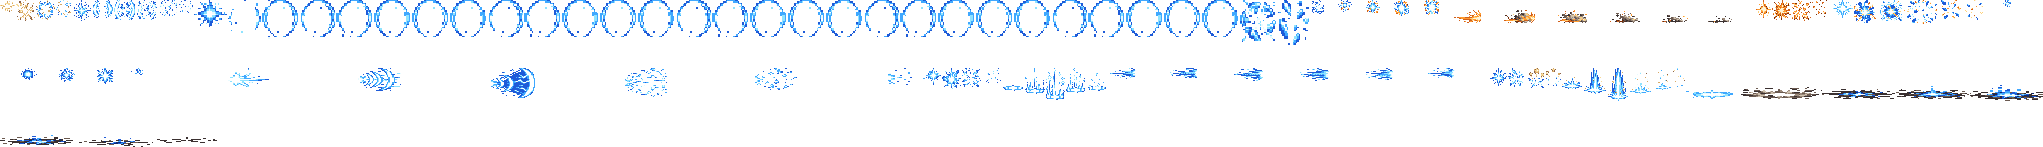
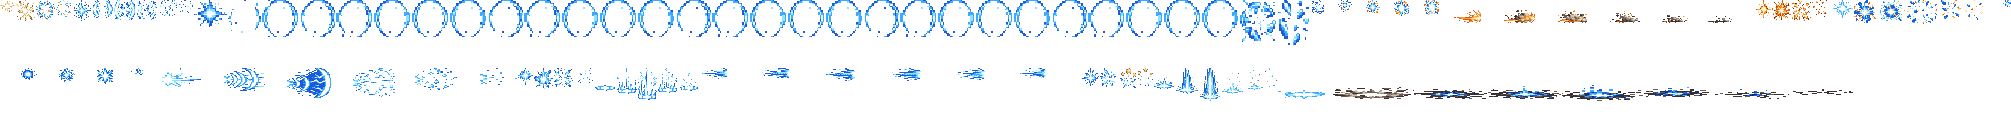
Vi: E's shock wave on a view-only line toward the target; run legs pack for Codex
The wave was a CasterViewEffect, which only turns left or right: aimed up or down it missed the
cone it hits, and on the red side it stood the wrong way (the user: "蔚的E技能特效是歪的",
"红方释放的释放是歪的", "之前剑姬的问题 E技能的特效没有跟随人物 反方向的"). It now rides
league_vi_e_wave, a LineRangeProjectile with no effects (league_briar E's way): it points from her
pivot at the target, lasts the picture's 22 ticks and outlives a target the punch kills. The
import lays Codex's wave 22-66 px along the 68 px line (e_wave), the showcase turns it to the
target. assets/source/vi/RUN_LEGS.md: the run's legs never swap ("蔚走路的时候没有明显交叉步"),
a legs-only redraw asked of Codex.

diff --git a/tools/art/import_vi.py b/tools/art/import_vi.py
@@ -16,9 +16,13 @@ Placing (a frame's middle is drawn on the unit's pivot, 11 px over its feet; a c
 faces left). Her spots are measured on league/champions/league_vi (x right, y down from the pivot; re-measure after a
 strips redraw; these are the guard design's, tools/art/strips_vi.py): the Q charge on the near gauntlet pulled back
 low beside her hip (its crystal (-7, -5), skill frames 2-4), the E glow on the far fist raised by her cheek (its crystal
-(11, -15) in the idle: that fist does the E hammer), the E wave's left middle on that fist's crystal as it smashes
-down-forward (22, -1: attack_e frame 4), the R trail's right edge at her back (-4, -12), Q's dust at her start (its
-right edge 4 px ahead, its foot on the soles).
+(11, -15) in the idle: that fist does the E hammer), the R trail's right edge at her back (-4, -12), Q's dust at her
+start (its right edge 4 px ahead, its foot on the soles). The E wave is the picture of a view-only line from her pivot
+toward the target (the kit's league_vi_e_wave, WAVE px long; a line's picture is drawn centred on the line and turned to
+it, league_briar E): its left middle 22 px along the line, where the smashing fist's crystal is (attack_e frame 4),
+its middle row on the line. As a caster picture it only turned left or right and stood the wrong way on the red side
+(the user, 2026-10-03: 「之前剑姬的问题 E技能的特效没有跟随人物 反方向的」); turned with the line it points where the cone
+hits, upside down when she punches left (Codex's wave is about the same both ways up).
 The hits, W's third hit, Q's stop and R's knock aside on the target's upper body (0, -8); R's uppercut column, the
 shield and R's launch with their foot on the soles; R's slam crack round the feet (its middle 2 px over the soles).
 Times (60 ticks a second, league_vi.data_champion): the Q charge 5 x 100 ms (its 30 ticks), Q's dust 6 x 70 ms (the
@@ -49,6 +53,7 @@ BODY = (0, -8)                 # a hit on the upper body
 Q_FIST = (-7, -5)              # the near gauntlet pulled back by her hip, skill frames 2-4: its crystal
 E_FIST = (11, -15)             # the far fist raised by her cheek in the idle (the E hammer's fist): its crystal
 E_SMASH = (22, -1)             # that fist smashing down-forward, attack_e frame 4: the wave's left middle
+WAVE = 68                      # the E wave's line (league_vi_e_wave's length / 1000): the frames centre on its middle
 R_BACK = (-4, -12)             # the R trail's right edge, behind her
 # name: factor, or (across, down)
 SCALE = {"hit": 0.7, "q_hit": 0.7, "e_hit": 0.7, "r_side": 0.7, "q_charge": 1 / 2, "e_arm": 1 / 2,
@@ -123,6 +128,13 @@ def left_at(frames, point):
     return [G.centre_frame(c, point[0] - x0, point[1] - int(round((y0 + y1) / 2))) for c in frames]
 
 
+def on_line(frames, start, length):
+    """A line's picture: the common box's left middle `start` px along a line `length` px long from her pivot, the frame
+    centred on the line's middle."""
+    x0, y0, x1, y1 = box(frames)
+    return [G.centre_frame(c, start - length // 2 - x0, -int(round((y0 + y1) / 2))) for c in frames]
+
+
 def right_at(frames, point):
     """The common box's right middle on `point`."""
     x0, y0, x1, y1 = box(frames)
@@ -163,7 +175,7 @@ def build():
         "q_hit": seq(at(cells("q_hit"), BODY), 70),
         "q_stop": seq(at(cells("q_stop"), BODY), 70),
         "e_arm": seq(at(cells("e_arm"), E_FIST), 80),
-        "e_cone": seq(left_at(cells("e_cone"), E_SMASH), 60),
+        "e_wave": seq(on_line(cells("e_cone"), E_SMASH[0], WAVE), 60),
         "e_hit": seq(at(cells("e_hit"), BODY), 70),
         "r_cast": seq(grounded(cells("r_cast")), 80),
         "r_trail": seq(right_at(cells("r_trail"), R_BACK), 70),
@@ -174,9 +186,11 @@ def build():
 
 
 # effect: (her tag, frame index) it is drawn over in the review; None = on a target (her idle)
-ON = {"q_charge": ("skill", 2), "q_go": ("skill_dash", 0), "e_arm": ("idle", 0), "e_cone": ("attack_e", 3),
+ON = {"q_charge": ("skill", 2), "q_go": ("skill_dash", 0), "e_arm": ("idle", 0), "e_wave": ("attack_e", 3),
       "bs_on": ("idle", 0), "r_cast": ("ult", 0), "r_trail": ("ult_dash", 0), "r_slam": ("ult_slam", 0)}
 BEHIND = {"q_go", "r_trail", "r_slam"}
+# effect: px its frame's middle stands ahead of her pivot in the review (a line's picture: the line's middle)
+AHEAD = {"e_wave": WAVE // 2}
 
 
 def review(fx, out, z=4):
@@ -196,12 +210,14 @@ def review(fx, out, z=4):
             if id(a) in seen:
                 continue
             seen.add(id(a))
+            dx = AHEAD.get(name, 0)
             H = max(a.shape[0], b.shape[0])
-            W = max(a.shape[1], b.shape[1])
+            W = max(a.shape[1] + 2 * dx, b.shape[1])
             c = Image.new("RGBA", (W, H), ARENA)
             layers = [(a, 1), (b, 0)] if name in BEHIND else [(b, 0), (a, 1)]
-            for arr, _ in layers:
-                c.alpha_composite(Image.fromarray(arr, "RGBA"), ((W - arr.shape[1]) // 2, (H - arr.shape[0]) // 2))
+            for arr, ahead in layers:
+                c.alpha_composite(Image.fromarray(arr, "RGBA"),
+                                  ((W - arr.shape[1]) // 2 + dx * ahead, (H - arr.shape[0]) // 2))
             cells_.append(c.resize((W * z, H * z), Image.NEAREST))
         h = max(c.height for c in cells_)
         row = Image.new("RGBA", (sum(c.width + 8 for c in cells_) + 8, h + 28), (30, 34, 40, 255))

diff --git a/tools/art/preview_vi.py b/tools/art/preview_vi.py
@@ -16,6 +16,7 @@
 Distances in px (1000 distance units a px): Q dashes 4 px a tick for 12 ticks, R 4 px a tick.
 """
 import argparse
+import math
 import os
 import sys
 
@@ -34,6 +35,7 @@ LEAGUE = os.path.join(ROOT, "league")
 CHAMP = os.path.join(LEAGUE, "champions", "league_vi")
 FX = os.path.join(LEAGUE, "effects", "league_vi_fx")
 Q_SPEED, R_SPEED = 4.0, 4.0
+WAVE = 68                                   # the E wave's line, px (league_vi_e_wave)
 ATK_HIT, ATK_DUR, ATK_CD = 10, 24, 60
 
 
@@ -90,12 +92,20 @@ def showcase(out, z=3, step=40):
     def on(foe, tag, at):
         over.append(OnFoe(frames_of(fx, tag), at, foe, z=2))
 
+    def line(tag, at, foe, length=WAVE):
+        """A view-only line's picture (league_vi_e_wave): centred on the line from her pivot toward the foe, turned to it."""
+        fx_, fy = foe.pos(at)
+        ang = math.atan2(fy - gy, fx_ - x)
+        frames = [(f.rotate(-math.degrees(ang), resample=Image.NEAREST, expand=True) if abs(ang) > 1e-6 else f, ms)
+                  for f, ms in frames_of(fx, tag)]
+        over.append(Anim(frames, at, int(round(x + length / 2 * math.cos(ang))), int(round(gy + length / 2 * math.sin(ang)))))
+
     def punch(foe, cd=ATK_CD, e=False, behind=None):
         """An attack (or E's punch): the hit on tick 10 of the 24-tick action; the next one cd ticks later."""
         start = t
         land = start + tick(ATK_HIT)
         if e:
-            on_her("e_cone", land - tick(1))
+            line("e_wave", land - tick(1), foe)
             for f in [foe] + ([behind] if behind else []):
                 on(f, "e_hit", land)
                 f.flinches.append(land)

diff --git a/README.md b/README.md
@@ -1982,7 +1982,7 @@ python tools/art/preview_vi.py
 - 新造型（`MODEL_V2.md`）：照 oppi 的蔚的结构画我们自己的——3/4 侧面朝右的拳击架势（近侧拳套横在胸前，远侧拳头举在脸旁）、头发盖住后颈接到肩上、身体是大块的深色加钢色肩甲，金色只在拳套上；服装和配色照我们自己的原画 A，oppi 的图只给 Codex 看结构、不描。Codex 生图的主稿用户认可了，但读回有 59 行（「codex做了一版挺大的 需要你慢慢调到合适的尺寸」）。`shrink_vi.py` 不缩读回图，而是回到主稿原图，每个游戏像素读它覆盖的那块原图：颜色归到主稿的 27 色，眼睛和水晶的蓝占一块的 12%、白色占 36% 就保留，描边的深色占 40% 就保留，其余取最多的颜色，零星的单格并掉，最后补齐描边。给用户看了 42 / 40 / 38 行，选 40（「40 但是眼睛要修一下」）：眼睛改成两行高、上面一行睫毛，近侧眼白加瞳孔、远侧瞳孔往里收一格（第一版远侧瞳孔压在下巴的轮廓线上，「凸在外面的」），三个方案选 1；远侧脸颊戳进刘海的一列皮肤改成刘海、浅棕的轮廓改成下巴那种近黑（「方案1吧 但是这里有点奇怪」，两个修法选 A）。近侧瞳孔最上面一格用只有它有的 #006CFB（导入时按它找脸，水晶用别的蓝）。128 × 128 画布上脚底在第 99 行、两脚中间在第 64 列。
 - 动作（`STRIPS_V4.md`）：Codex 照画主稿的方法，一帧一张 1254 px 的生图，和主稿一样大、脚踩主稿的地面线（y = 1189）、两脚中间在 x = 635，自己不读回、不缩小、不拼。`strips_vi.py` 用造型那套格子读每一帧（把主稿当成一帧读，结果和造型逐像素一样），脚踩进地面超过半格的整帧上移、站着悬空的下移（移动和 R 冲锋有腾空，不动）；头还竖着的帧都贴造型的头：按头发和皮肤的分布找到 Codex 画的头（逐格比颜色只有 0.2–0.6 对得上），先擦掉它（脸那一侧全擦，后脑只擦皮肤和眼睛，冲刺时往后飘的头发留着），再贴、补描边、去掉不到 8 格的碎块；死亡低头趴下，留 Codex 自己的头。动作照英雄联盟（`poses.json` 渲染的每帧姿势），都从拳击架势出发再回到架势；死亡整个人跪下趴在拳套上，每帧都画全。Codex 的 50 帧原图存成按主稿色板的索引色 PNG（19 MB → 1.2 MB，读出来逐像素不变）。
 - 导入：待机 6 帧都是造型，第 3–5 帧小腿以上下沉一行呼吸（`BOB`，接缝在造型第 92 行：两条腿那里都是细斜线，拳套最低到第 85 行）；按 #006CFB 定头的位置（`EYES`）；描边补齐（`COMPLETE`）。头像截取点 (−1, −37)（`tfm2_ase.py face`）。
-- 特效（Codex 画的 15 张，`import_vi.py`）：原稿是 8 px 方块的像素画（每张约 30 格），按技能需要缩放（每个新像素取原稿那块里最亮的不透明像素，白芯和一格的线留得住）：命中类 0.7（缩一半时太小，用户：「命中类偏小恢复到0.7」）、拳头的光一半、爆弹重拳 0.7、撞停 0.8、护盾放大 1.5 倍（36 × 45，罩住 40 行的她）、砸地裂纹只横向拉 1.7 倍（约 75 px，原来被她砸地的身子挡住，用户：「往两边延伸出去就行」）。位置按新动作量拳套水晶：Q 蓄力在拉到身侧的近侧拳套 (−7, −5)，E 充能在脸旁的远侧拳头 (11, −15)（E 砸拳用这只手），冲击波从第 4 帧砸下的拳头 (22, −1) 往前，R 尾迹的右端在她背后 (−4, −12)；命中在上半身 (0, −8)，上勾拳光柱、护盾、R 起步落在脚底，裂纹的中线在脚底上方 2 px。时长：Q 蓄力 5 × 100 ms（30 tick），护盾 3 秒（起、第 4–8 帧循环 5 次、碎），R 尾迹 6 × 70 ms 循环到落地。
+- 特效（Codex 画的 15 张，`import_vi.py`）：原稿是 8 px 方块的像素画（每张约 30 格），按技能需要缩放（每个新像素取原稿那块里最亮的不透明像素，白芯和一格的线留得住）：命中类 0.7（缩一半时太小，用户：「命中类偏小恢复到0.7」）、拳头的光一半、爆弹重拳 0.7、撞停 0.8、护盾放大 1.5 倍（36 × 45，罩住 40 行的她）、砸地裂纹只横向拉 1.7 倍（约 75 px，原来被她砸地的身子挡住，用户：「往两边延伸出去就行」）。位置按新动作量拳套水晶：Q 蓄力在拉到身侧的近侧拳套 (−7, −5)，E 充能在脸旁的远侧拳头 (11, −15)（E 砸拳用这只手），冲击波从第 4 帧砸下的拳头往前 22–66 px，画在一条从她站位点朝目标的「只有画面的线」上（`league_vi_e_wave`，68000 长，和贝蕾亚 E 的声波一样）：原来是挂在她身上的特效，只会左右翻，目标在斜上斜下时和伤害的扇形对不上，红方还会朝反方向（用户：「蔚的E技能特效是歪的」「红方释放的释放是歪的」「之前剑姬的问题 E技能的特效没有跟随人物 反方向的」），现在冲击波总是朝着被打的人，朝左打时上下颠倒（Codex 的冲击波上下差不多，看不出来），R 尾迹的右端在她背后 (−4, −12)；命中在上半身 (0, −8)，上勾拳光柱、护盾、R 起步落在脚底，裂纹的中线在脚底上方 2 px。时长：Q 蓄力 5 × 100 ms（30 tick），护盾 3 秒（起、第 4–8 帧循环 5 次、碎），R 尾迹 6 × 70 ms 循环到落地。
 
 逐帧预览：[`docs/preview/league_vi_frames.png`](docs/preview/league_vi_frames.png)，特效：[`docs/preview/league_vi_effects.png`](docs/preview/league_vi_effects.png)。
 

diff --git a/assets/source/vi/RUN_LEGS.md b/assets/source/vi/RUN_LEGS.md
@@ -1,0 +1,21 @@
+# 蔚：跑步的腿重画（交叉步；给 Codex 的提示词）
+
+> **问题**（用户，2026-10-03：「蔚走路的时候没有明显交叉步」）：`now/vi_run_now.png` 是现在的 8 帧（游戏尺寸，8 倍）。**带粉色护膝的那条腿 8 帧都在后面，另一条 8 帧都在前面**——第 5–8 帧只是把第 1–4 帧又画了一遍，两条腿从来不交换，看起来像一直拖着同一条腿往前冲；第 4、8 帧两只鞋相距约 26 格，是个大弓步，不是跑步。
+>
+> **英雄联盟的跑步**（`ref/lol_pose_run.png` 每帧一格的 3/4 视角，`ref/lol_run_side.png` 侧面）：半个周期换一次腿——第 1–4 帧一条腿踩地、往身体下面向后推，另一条腿从后面抬起、经过踩地的腿摆到前面；第 5–8 帧两条腿对调。`ref/approved_run_caitlyn.png` 是本包另一个英雄已经通过的跑步，**只看腿的动法**（每半个周期前后脚交换）。
+
+## 要做的
+
+1. **只重画腿**（腰带以下：大腿、护膝、小腿、靴子）。8 张原图在 `now/frames/vi_run_1.png` … `vi_run_8.png`（1254×1254，地面线 y = 1189，站位点 x = 635，游戏里的 1 格约等于原图 18.8 × 18 px）。**腰带以上一像素都不要动**（头、头发、身体、两只拳套和手臂），我们导入时会把现在的上半身原样贴回去。
+2. 腿的位置照 `ref/shoe_schedule.png`（每帧两只鞋离站位点几格、抬起几格）：
+   - A = 第 1 帧踩在地上的那条腿，B = 另一条；
+   - 第 1–4 帧：A 踩地，从 +3 格滑到 −4 格（在身体下面往后推，第 4 帧脚跟离地）；B 从后面 −5 格抬起（第 2 帧抬到 5 格高，脚跟收向臀部），第 3 帧经过 A（两膝交叉），第 4 帧伸到前面 +3 格准备落地；
+   - **第 5–8 帧：和 1–4 一样，但 A、B 对调**：B 踩地往后推，A 从后面抬起摆到前面；
+   - 两只鞋**最多相距 9 格**（不要弓步），鞋尖始终朝右（前进方向）；
+   - 两条腿都用待机里腿的材质和颜色（`design/vi_idle.png`：深色腿甲、金色镶边、粉色护膝、黑靴）；**近处的腿永远压在远处的腿上面**（近腿的描边盖住远腿），所以交换的是前后位置，不是谁在上层。
+3. 每帧踩地的那只鞋底贴在地面线 y = 1189 上；抬起的鞋按表里的格数抬高。膝盖自然弯曲，不要直棍腿；两条腿的粗细和现在一样（大腿约 4 格、小腿约 3 格）。
+4. 像现在的原图一样：大方块像素、一道深色外描边、不抗锯齿、背景透明，颜色只用原图里已有的颜色。
+
+## 交付
+
+放在 **`outputs/vi-run-legs/frames/vi_run_1.png` … `vi_run_8.png`**（和 `now/frames` 同样的 1254×1254、同样的地面线和站位点），外加一张 `outputs/vi-run-legs/preview.png`（8 帧排一行）和 **`HANDOFF.md`**（最后写；写完就算交付）。只交跑步这 8 帧。

diff --git a/.claude/skills/tfm2-hero-mod/references/champion-data.md b/.claude/skills/tfm2-hero-mod/references/champion-data.md
@@ -639,6 +639,9 @@ the same champion file.
   her crescent rides one with `speed` 100 and `y_offset` -4000 (9 px up), drawn 17 px ahead along its flight and
   mirrored top to bottom, each 6-tick frame stepped back by the distance crept, an empty last frame after the
   parry's 45 ticks while the projectile crawls on (4-9 s in a logged game; it goes at once if the target dies).
+  A picture that must outlive a target killed by the hit rides a view-only `LineRangeProjectile` instead (in a
+  `Targeting` action it points at the target and lasts its `delay`; league_briar E's scream, league_vi E's shock wave:
+  as a caster picture it stood the wrong way on the red side, "E技能的特效没有跟随人物 反方向的").
   A thing with a top and a bottom that flies every way (league_thresh's lantern) is laid along its flight
   and mirrored top to bottom, so every turn of it looks the same (art-spec).
 - A projectile's picture has one length, but its frames can follow the flight: an `Animated` view with
